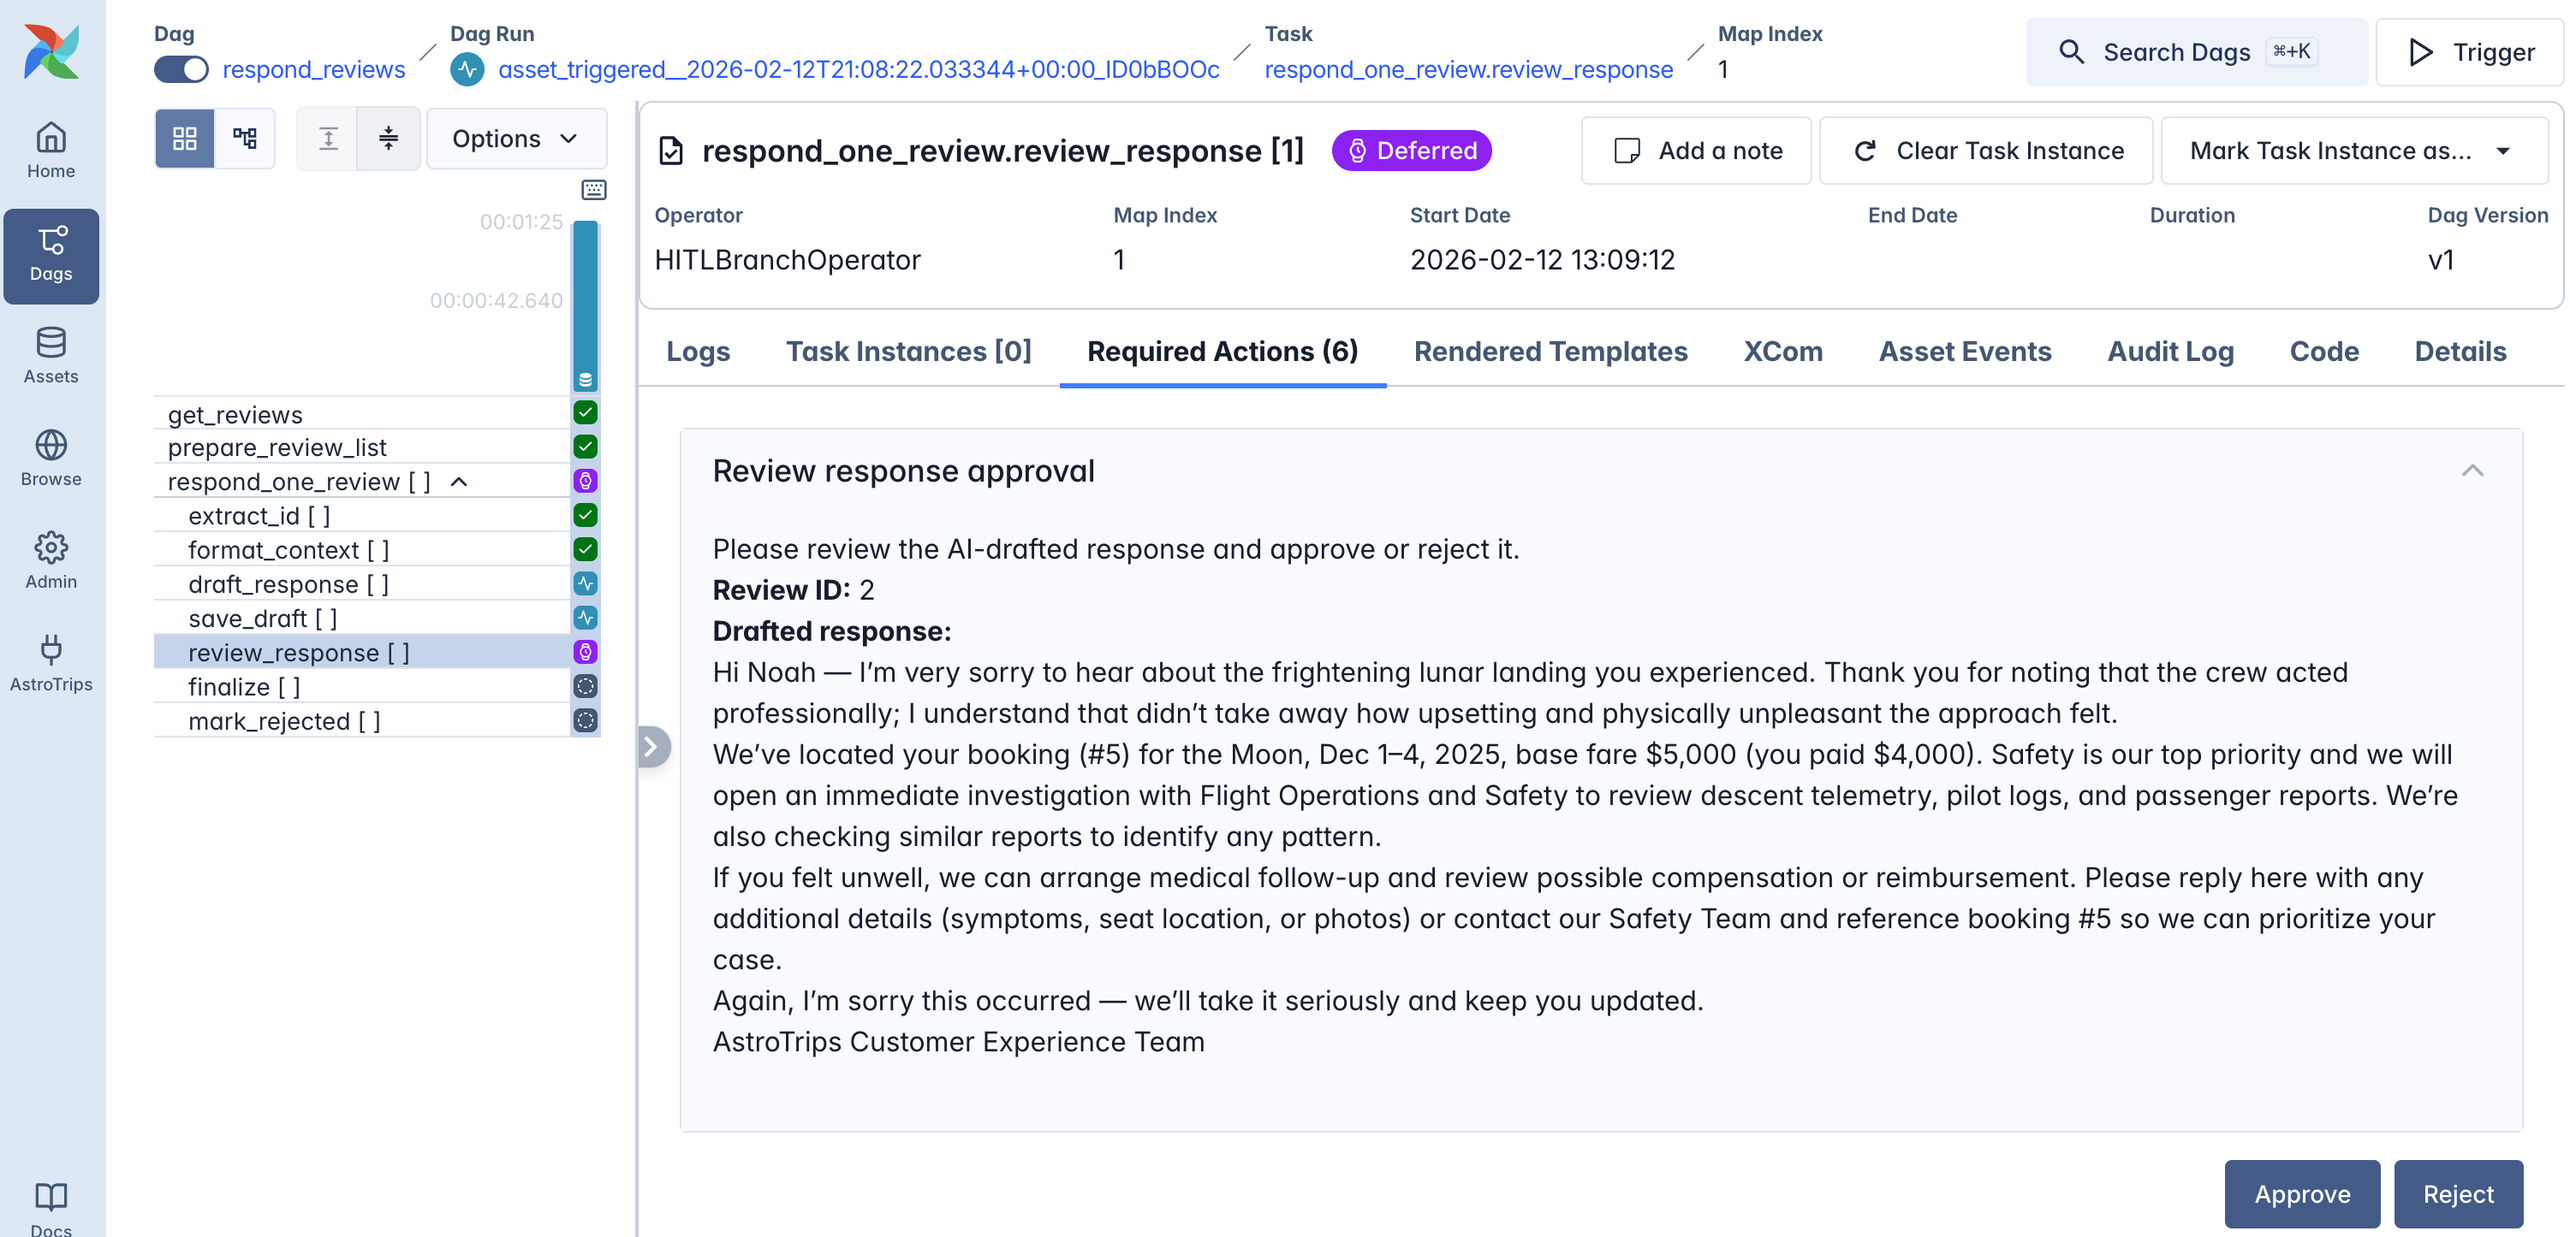
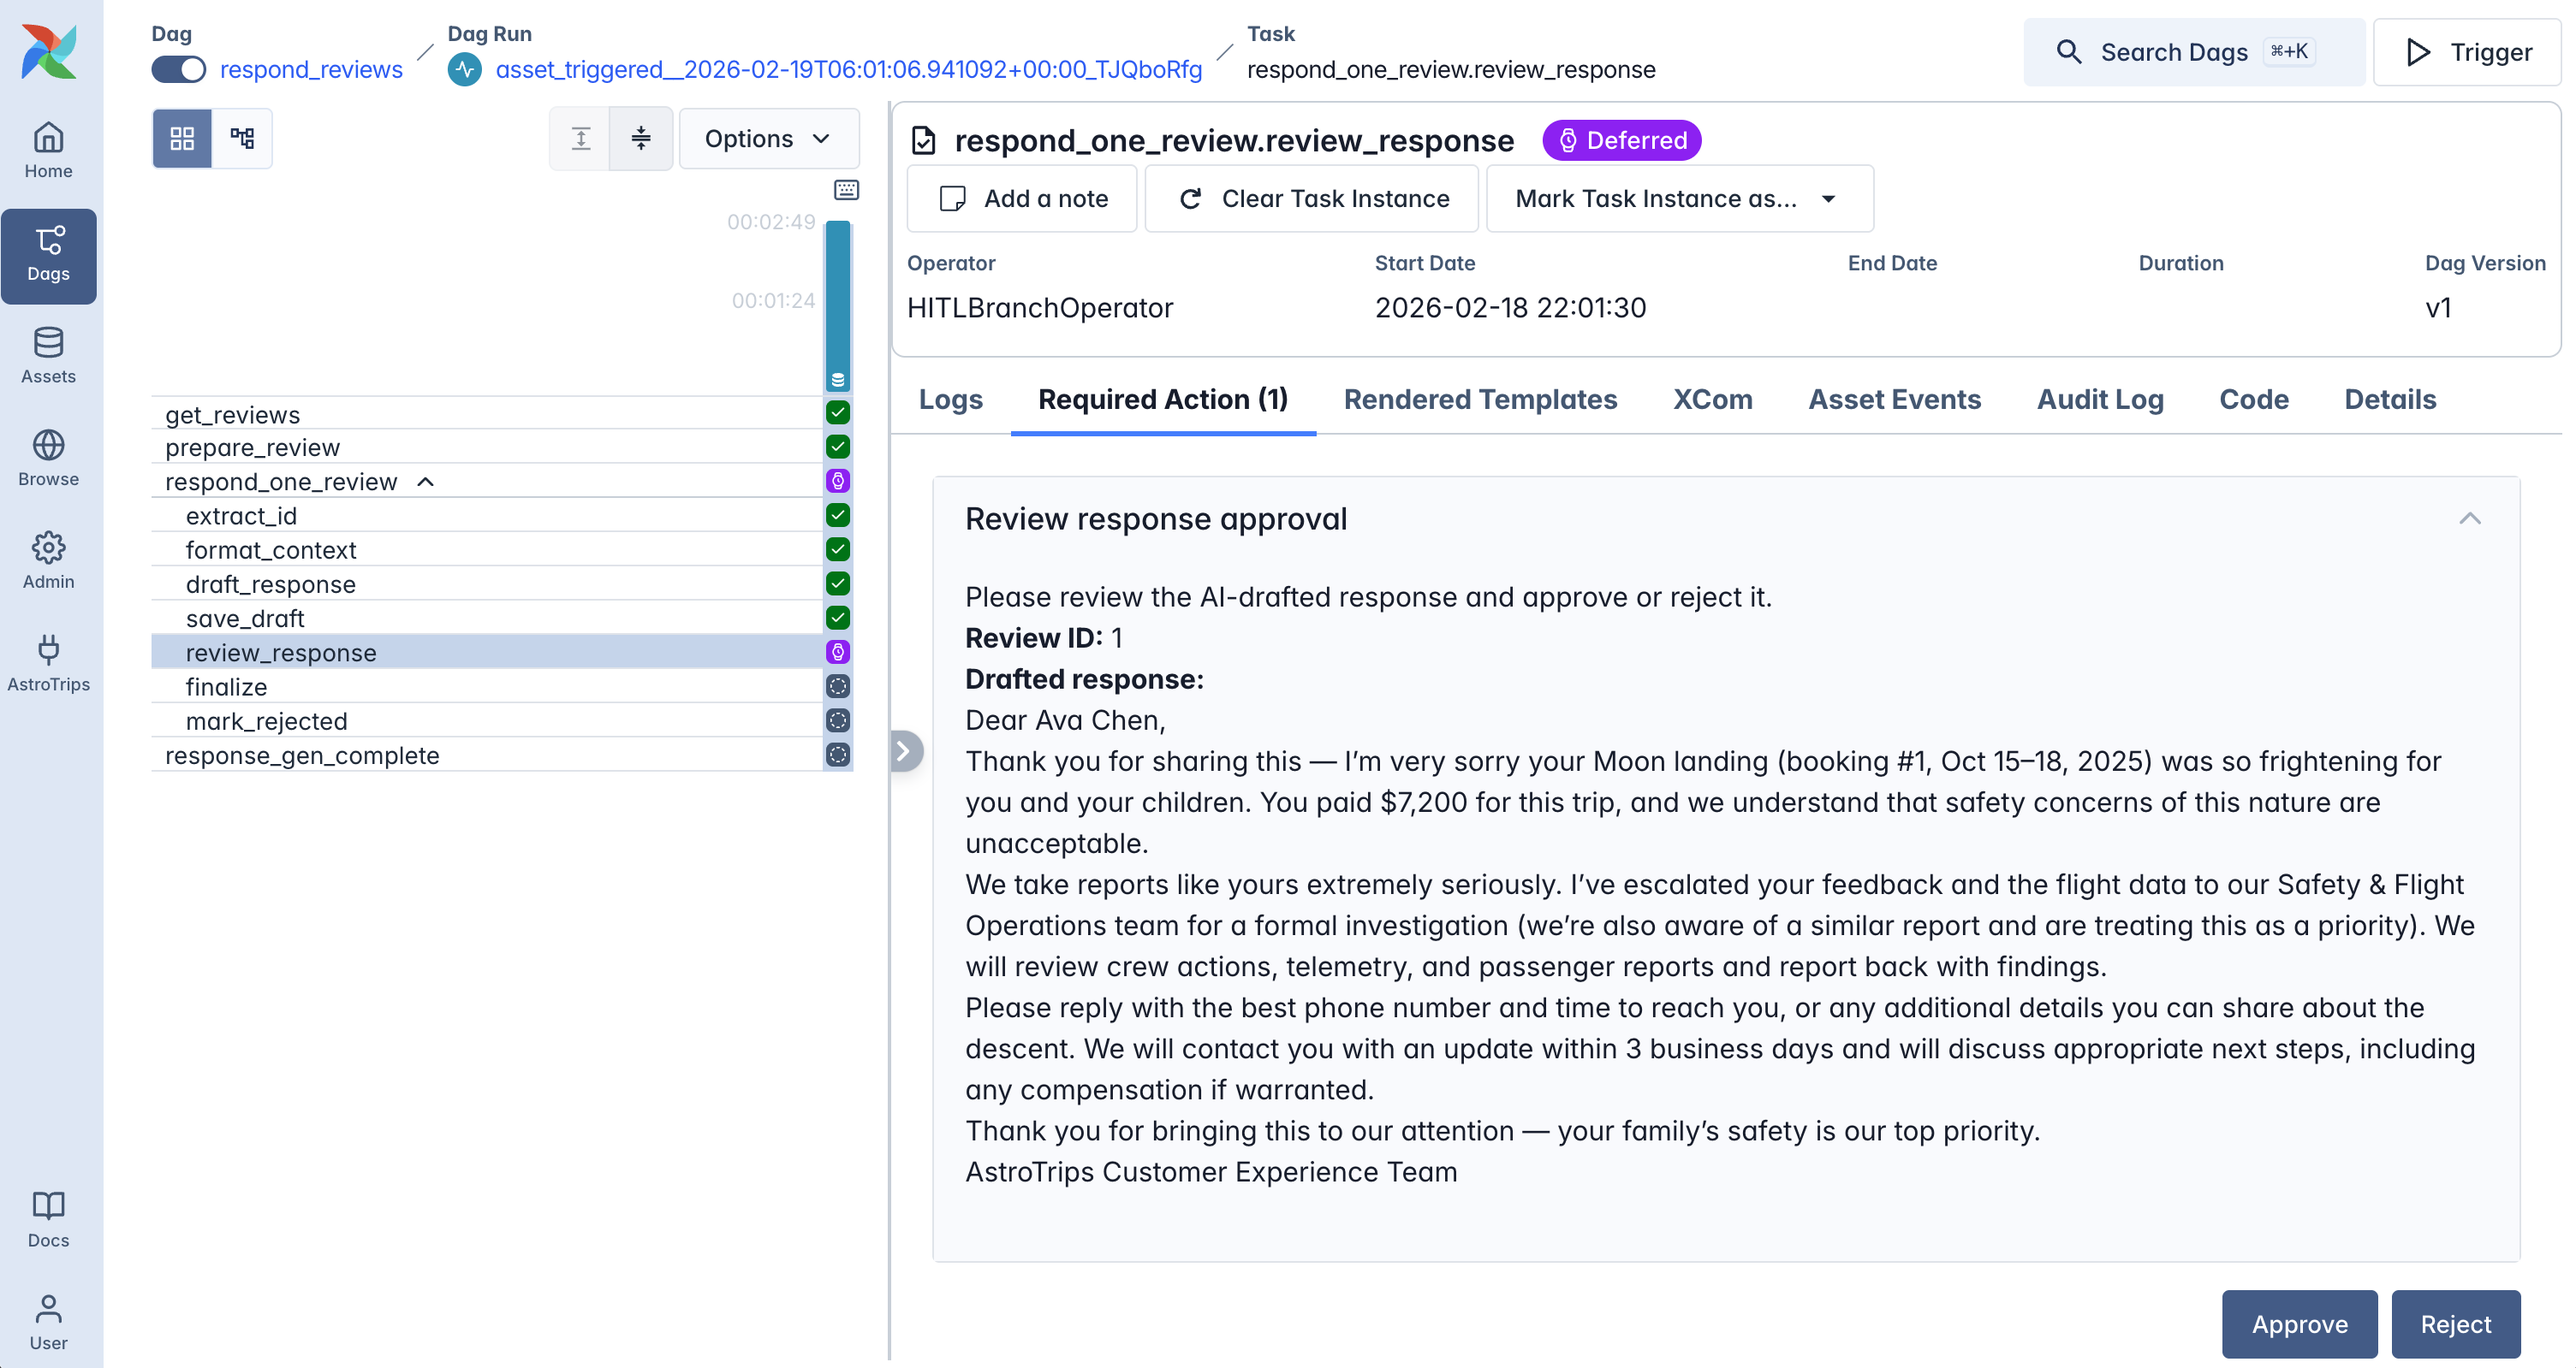
Remove DTM on task group usage to simplify last exercise

diff --git a/solutions/dags/respond_reviews.py b/solutions/dags/respond_reviews.py
@@ -1,5 +1,6 @@
 from pendulum import duration
 from airflow.configuration import AIRFLOW_HOME
+from airflow.exceptions import AirflowSkipException
 from airflow.providers.common.sql.operators.sql import SQLExecuteQueryOperator
 from airflow.providers.standard.operators.hitl import HITLBranchOperator
 from airflow.sdk import Asset, chain, dag, task, task_group
@@ -24,29 +25,27 @@ def respond_reviews():
         sql=(
             "SELECT review_id, booking_id, review_text, sentiment, category, summary "
             "FROM trip_reviews WHERE status = 'routed' AND ai_response IS NULL "
-            "ORDER BY submitted_at ASC"
+            "ORDER BY submitted_at ASC LIMIT 1"
         ),
     )
 
     @task
-    def prepare_review_list(query_result):
+    def prepare_review(query_result):
         if not query_result:
-            return []
-        return [
-            {
-                "review_id": row[0],
-                "booking_id": row[1],
-                "text": row[2],
-                "sentiment": row[3],
-                "category": row[4],
-                "summary": row[5],
-            }
-            for row in query_result
-        ]
+            raise AirflowSkipException("No unprocessed reviews found")
+        row = query_result[0]
+        return {
+            "review_id": row[0],
+            "booking_id": row[1],
+            "text": row[2],
+            "sentiment": row[3],
+            "category": row[4],
+            "summary": row[5],
+        }
 
-    _review_list = prepare_review_list(_reviews.output)
+    _review_data = prepare_review(_reviews.output)
 
-    @task_group(default_args={"max_active_tis_per_dagrun": 4})
+    @task_group
     def respond_one_review(review_data):
 
         @task
@@ -95,7 +94,6 @@ def respond_reviews():
                 "ai_response = $response WHERE review_id = $id::INT"
             ),
             parameters={"id": _id, "response": _response},
-            max_active_tis_per_dagrun=1,
         )
 
         _review_branch = HITLBranchOperator(
@@ -103,9 +101,9 @@ def respond_reviews():
             subject="Review response approval",
             body=(
                 "Please review the AI-drafted response and approve or reject it.\n\n"
-                "**Review ID:** {{ ti.xcom_pull(task_ids='respond_one_review.extract_id', map_indexes=ti.map_index) }}\n\n"
+                "**Review ID:** {{ ti.xcom_pull(task_ids='respond_one_review.extract_id') }}\n\n"
                 "**Drafted response:**\n\n"
-                "{{ ti.xcom_pull(task_ids='respond_one_review.draft_response', map_indexes=ti.map_index) }}"
+                "{{ ti.xcom_pull(task_ids='respond_one_review.draft_response') }}"
             ),
             options=["Approve", "Reject"],
             options_mapping={
@@ -122,7 +120,6 @@ def respond_reviews():
                 "approved_at = CURRENT_TIMESTAMP WHERE review_id = $id::INT"
             ),
             parameters={"id": _id},
-            max_active_tis_per_dagrun=1,
         )
 
         _mark_rejected = SQLExecuteQueryOperator(
@@ -130,7 +127,6 @@ def respond_reviews():
             conn_id=_DUCKDB_CONN_ID,
             sql="UPDATE trip_reviews SET status = 'rejected' WHERE review_id = $id::INT",
             parameters={"id": _id},
-            max_active_tis_per_dagrun=1,
         )
 
         chain(_save_draft, _review_branch, [_finalize, _mark_rejected])
@@ -140,7 +136,7 @@ def respond_reviews():
         print("Response generation complete for all new reviews")
 
     chain(
-        respond_one_review.expand(review_data=_review_list),
+        respond_one_review(review_data=_review_data),
         response_gen_complete()
     )
 

diff --git a/exercises.md b/exercises.md
@@ -855,42 +855,45 @@ Both tools connect to DuckDB in read-only mode and get the database path from th
 
 ## Add the query and task group
 
-1. Add tasks to fetch routed reviews that don't have a response yet and prepare them for further usage:
+1. Add tasks to fetch the oldest unprocessed review and prepare it for the agent:
 
     ```python
+    from airflow.exceptions import AirflowSkipException
+
     _reviews = SQLExecuteQueryOperator(
         task_id="get_reviews",
         conn_id=_DUCKDB_CONN_ID,
         sql=(
             "SELECT review_id, booking_id, review_text, sentiment, category, summary "
             "FROM trip_reviews WHERE status = 'routed' AND ai_response IS NULL "
-            "ORDER BY submitted_at ASC"
+            "ORDER BY submitted_at ASC LIMIT 1"
         ),
     )
 
     @task
-    def prepare_review_list(query_result):
+    def prepare_review(query_result):
         if not query_result:
-            return []
-        return [
-            {
-                "review_id": row[0],
-                "booking_id": row[1],
-                "text": row[2],
-                "sentiment": row[3],
-                "category": row[4],
-                "summary": row[5],
-            }
-            for row in query_result
-        ]
+            raise AirflowSkipException("No unprocessed reviews found")
+        row = query_result[0]
+        return {
+            "review_id": row[0],
+            "booking_id": row[1],
+            "text": row[2],
+            "sentiment": row[3],
+            "category": row[4],
+            "summary": row[5],
+        }
 
-    _review_list = prepare_review_list(_reviews.output)
+    _review_data = prepare_review(_reviews.output)
     ```
 
-2. Create the task group for per-review processing, and add a task to prepare the context for the agent inference:
+> [!NOTE]
+> `LIMIT 1` means each Dag run handles exactly one review. Run the Dag again to pick up the next one. If there are no unprocessed reviews left, `AirflowSkipException` gracefully skips all downstream tasks.
+
+2. Create the task group for processing one review, and add a task to prepare the context for the agent:
 
     ```python
-    @task_group(default_args={"max_active_tis_per_dagrun": 4})
+    @task_group
     def respond_one_review(review_data):
 
         @task
@@ -902,9 +905,6 @@ Both tools connect to DuckDB in read-only mode and get the database path from th
                 f"Full review:\n{data['text']}"
             )
     ```
-
-> [!NOTE]
-> With `default_args` on task group level, we can set options that are automatically propagated to all tasks within the task group. This is also possible on Dag level. In this case, we limit the parallelism for each task to 4.
 
 ## Add the agent and save tasks
 
@@ -952,12 +952,8 @@ Both tools connect to DuckDB in read-only mode and get the database path from th
                 "ai_response = $response WHERE review_id = $id::INT"
             ),
             parameters={"id": _id, "response": _response},
-            max_active_tis_per_dagrun=1,
         )
     ```
-
-> [!NOTE]
-> Here, we override the `max_active_tis_per_dagrun` set on task group level for an individual task. In this case, we must avoid parallel access to the DuckDB file.
 
 ## Add the HITL approval step
 
@@ -971,9 +967,9 @@ The `HITLBranchOperator` pauses the workflow and presents the drafted response f
             subject="Review response approval",
             body=(
                 "Please review the AI-drafted response and approve or reject it.\n\n"
-                "**Review ID:** {{ ti.xcom_pull(task_ids='respond_one_review.extract_id', map_indexes=ti.map_index) }}\n\n"
+                "**Review ID:** {{ ti.xcom_pull(task_ids='respond_one_review.extract_id') }}\n\n"
                 "**Drafted response:**\n\n"
-                "{{ ti.xcom_pull(task_ids='respond_one_review.draft_response', map_indexes=ti.map_index) }}"
+                "{{ ti.xcom_pull(task_ids='respond_one_review.draft_response') }}"
             ),
             options=["Approve", "Reject"],
             options_mapping={
@@ -990,7 +986,6 @@ The `HITLBranchOperator` pauses the workflow and presents the drafted response f
                 "approved_at = CURRENT_TIMESTAMP WHERE review_id = $id::INT"
             ),
             parameters={"id": _id},
-            max_active_tis_per_dagrun=1,
         )
 
         _mark_rejected = SQLExecuteQueryOperator(
@@ -998,7 +993,6 @@ The `HITLBranchOperator` pauses the workflow and presents the drafted response f
             conn_id=_DUCKDB_CONN_ID,
             sql="UPDATE trip_reviews SET status = 'rejected' WHERE review_id = $id::INT",
             parameters={"id": _id},
-            max_active_tis_per_dagrun=1,
         )
 
         chain(_save_draft, _review_branch, [_finalize, _mark_rejected])
@@ -1007,7 +1001,7 @@ The `HITLBranchOperator` pauses the workflow and presents the drafted response f
 > [!NOTE]
 > Task IDs inside a task group must use the full prefixed path (e.g., `respond_one_review.finalize`), not just the local name.
 
-2. Add a task to update an asset indicating that the response generation is complete, and expand the task group **outside the task group, within the Dag function**:
+2. Add a completion task and wire everything up **outside the task group, within the Dag function**:
 
     ```python
     @task(outlets=[Asset("responded-reviews")], trigger_rule="none_failed_min_one_success")
@@ -1015,7 +1009,7 @@ The `HITLBranchOperator` pauses the workflow and presents the drafted response f
         print("Response generation complete for all new reviews")
 
     chain(
-        respond_one_review.expand(review_data=_review_list),
+        respond_one_review(review_data=_review_data),
         response_gen_complete()
     )
     ```
@@ -1027,14 +1021,14 @@ The `HITLBranchOperator` pauses the workflow and presents the drafted response f
 
 1. Sync your changes. Re-run the `setup` Dag to reset the database, then trigger `analyze_reviews`.
 2. The full pipeline cascades: analyze → route → embed → respond, all based on asset-aware scheduling.
-3. The `respond_reviews` Dag pauses at the HITL step. It will generate one HITL interaction per review. Navigate to _Browse_ → _Required Actions_.
-4. After a bit, some required actions will appear.
+3. The `respond_reviews` Dag pauses at the HITL step for **one** review. Navigate to _Browse_ → _Required Actions_.
+4. A required action will appear with the AI-drafted response.
 
 ![Required actions list](doc/screenshot-required-actions.png)
 
 ![Human-in-the-loop form](doc/screenshot-hitl-form.png)
 
-5. Select **Approve** or **Reject** for the reviews. As we limited parallelism to 4, you have to wait for new ones to appear after handling some of them. Once all 8 reviews responses are approved or rejected, we are ready to check the final result.
+5. Select **Approve** or **Reject**. Once the Dag completes, trigger `respond_reviews` again manually to process the next review. Repeat a few times. Try approving some and rejecting others to see how the portal reflects different outcomes.
 6. Open the **AstroTrips Support Portal**! Approved reviews show a green status box, rejected reviews show a red one.
 
 ![Final review state](doc/screenshot-final-state.png)
